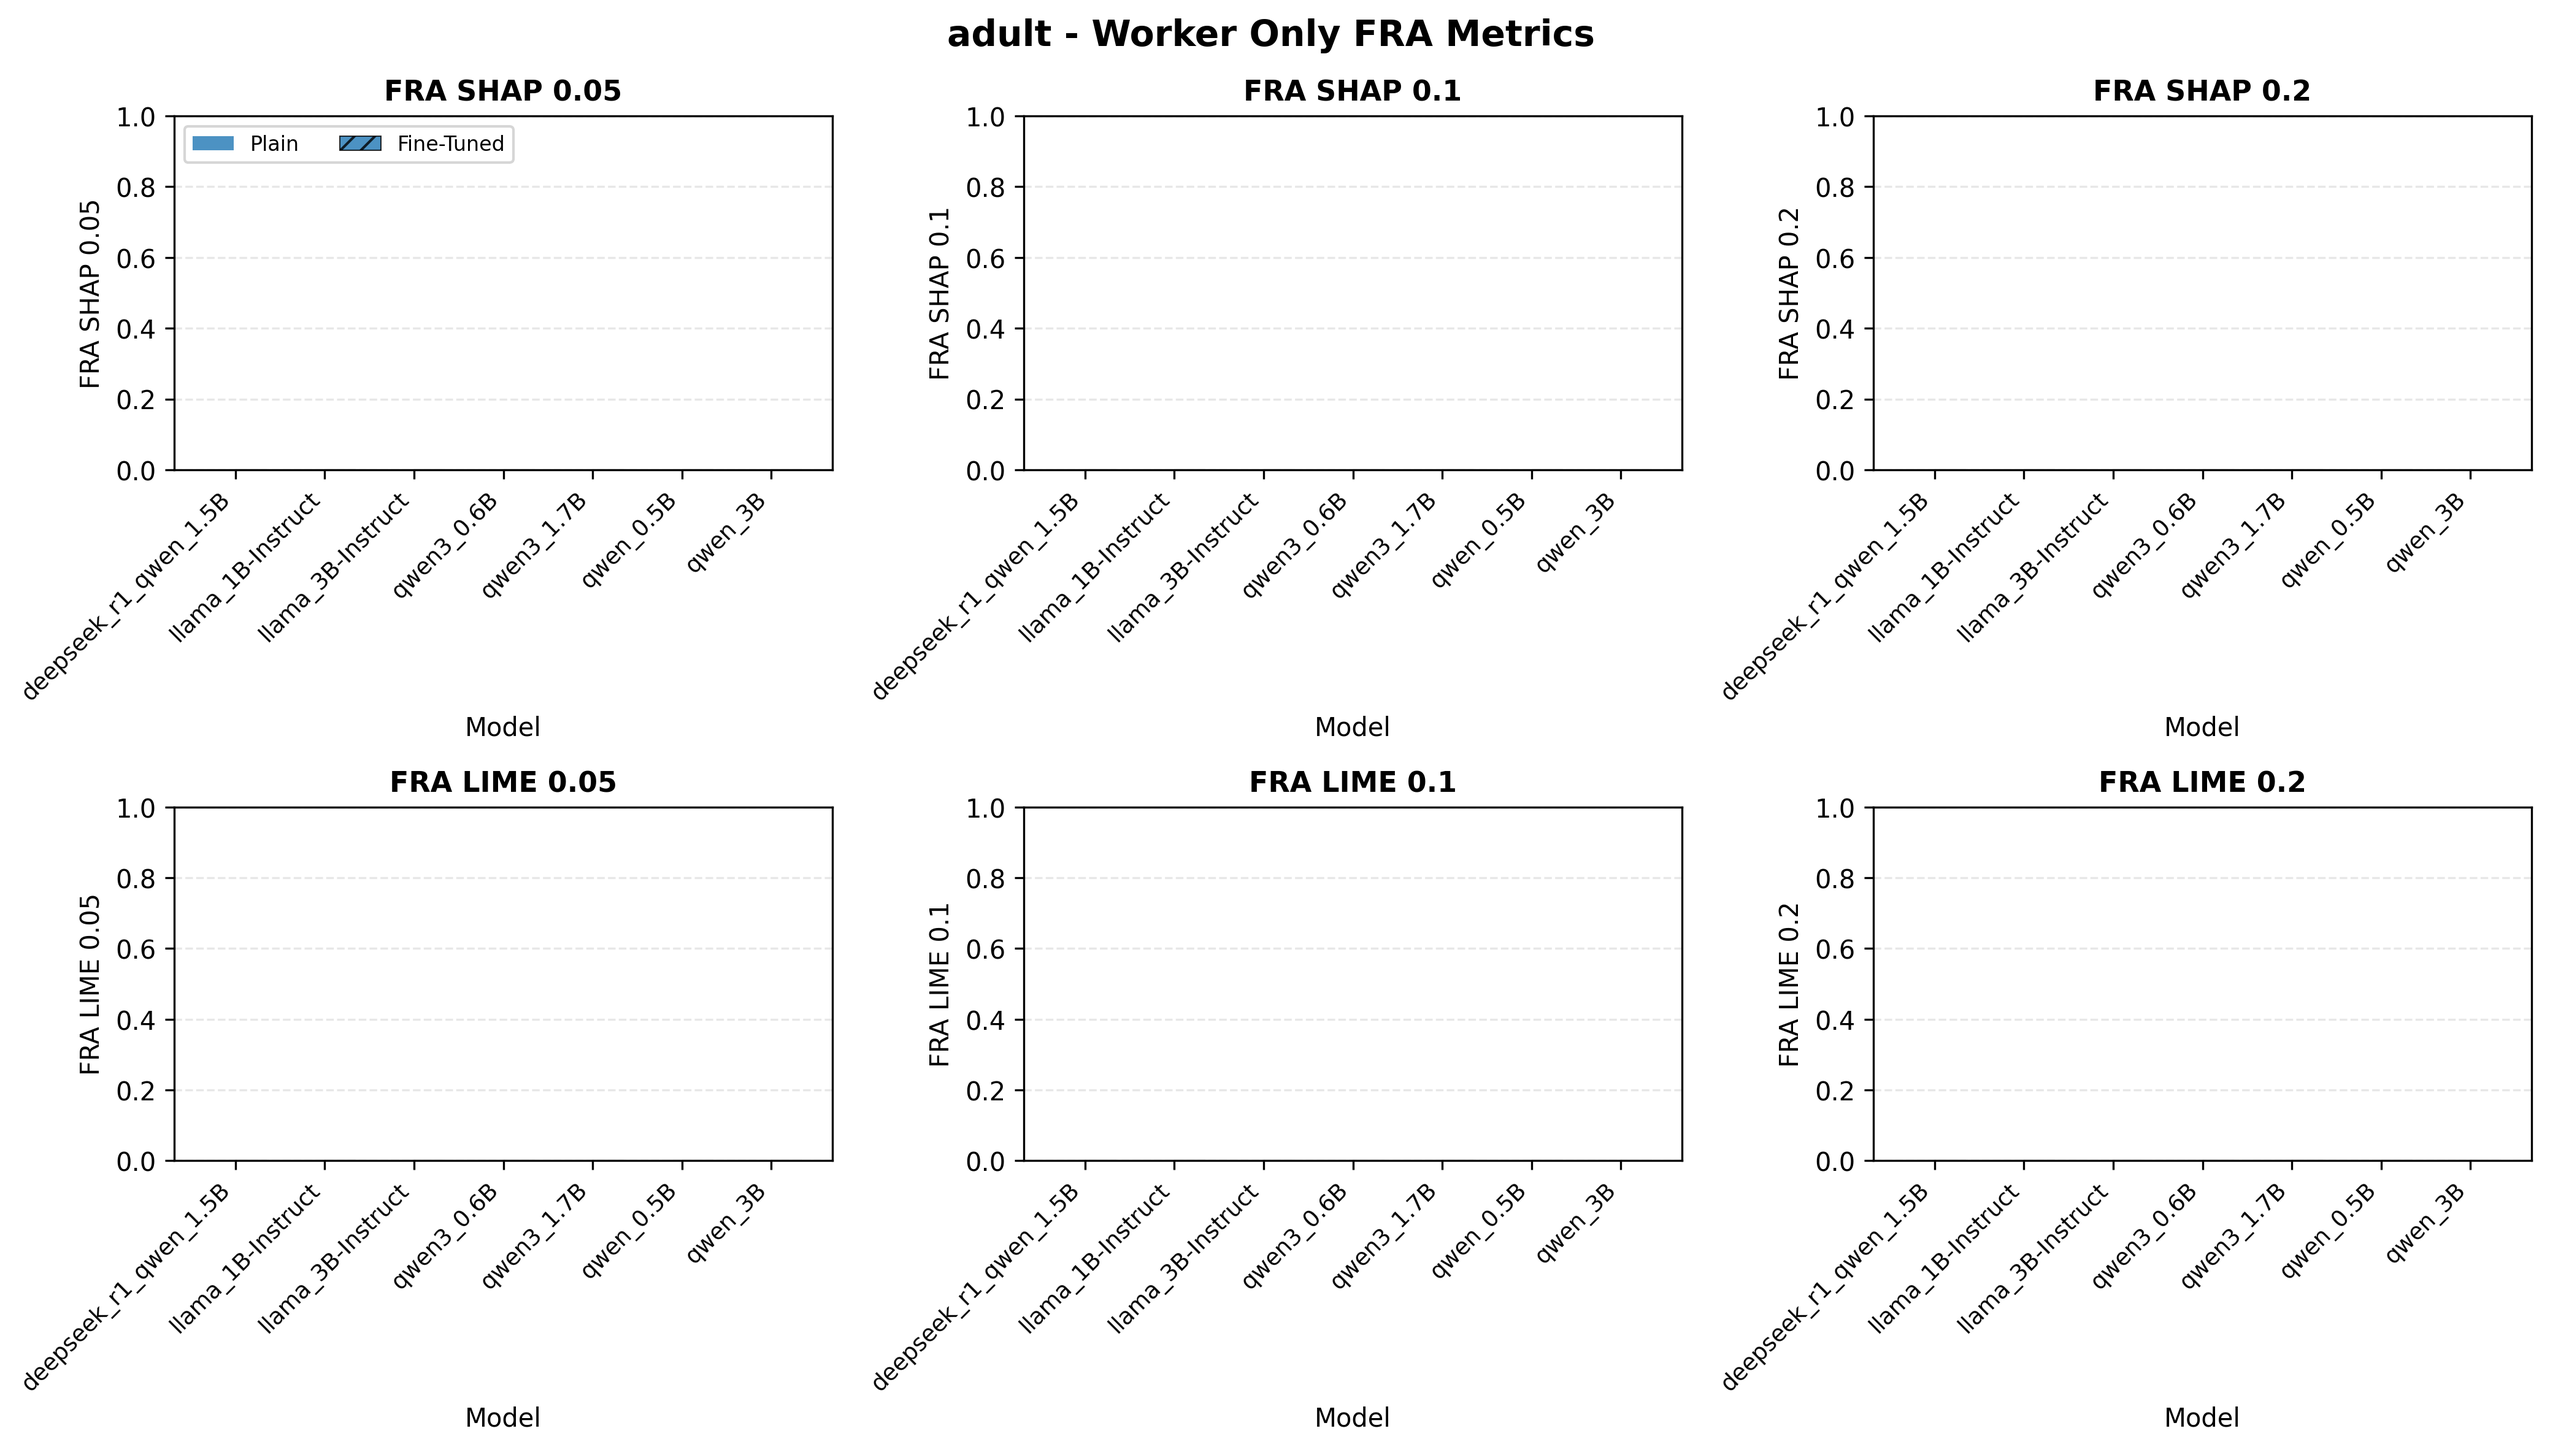
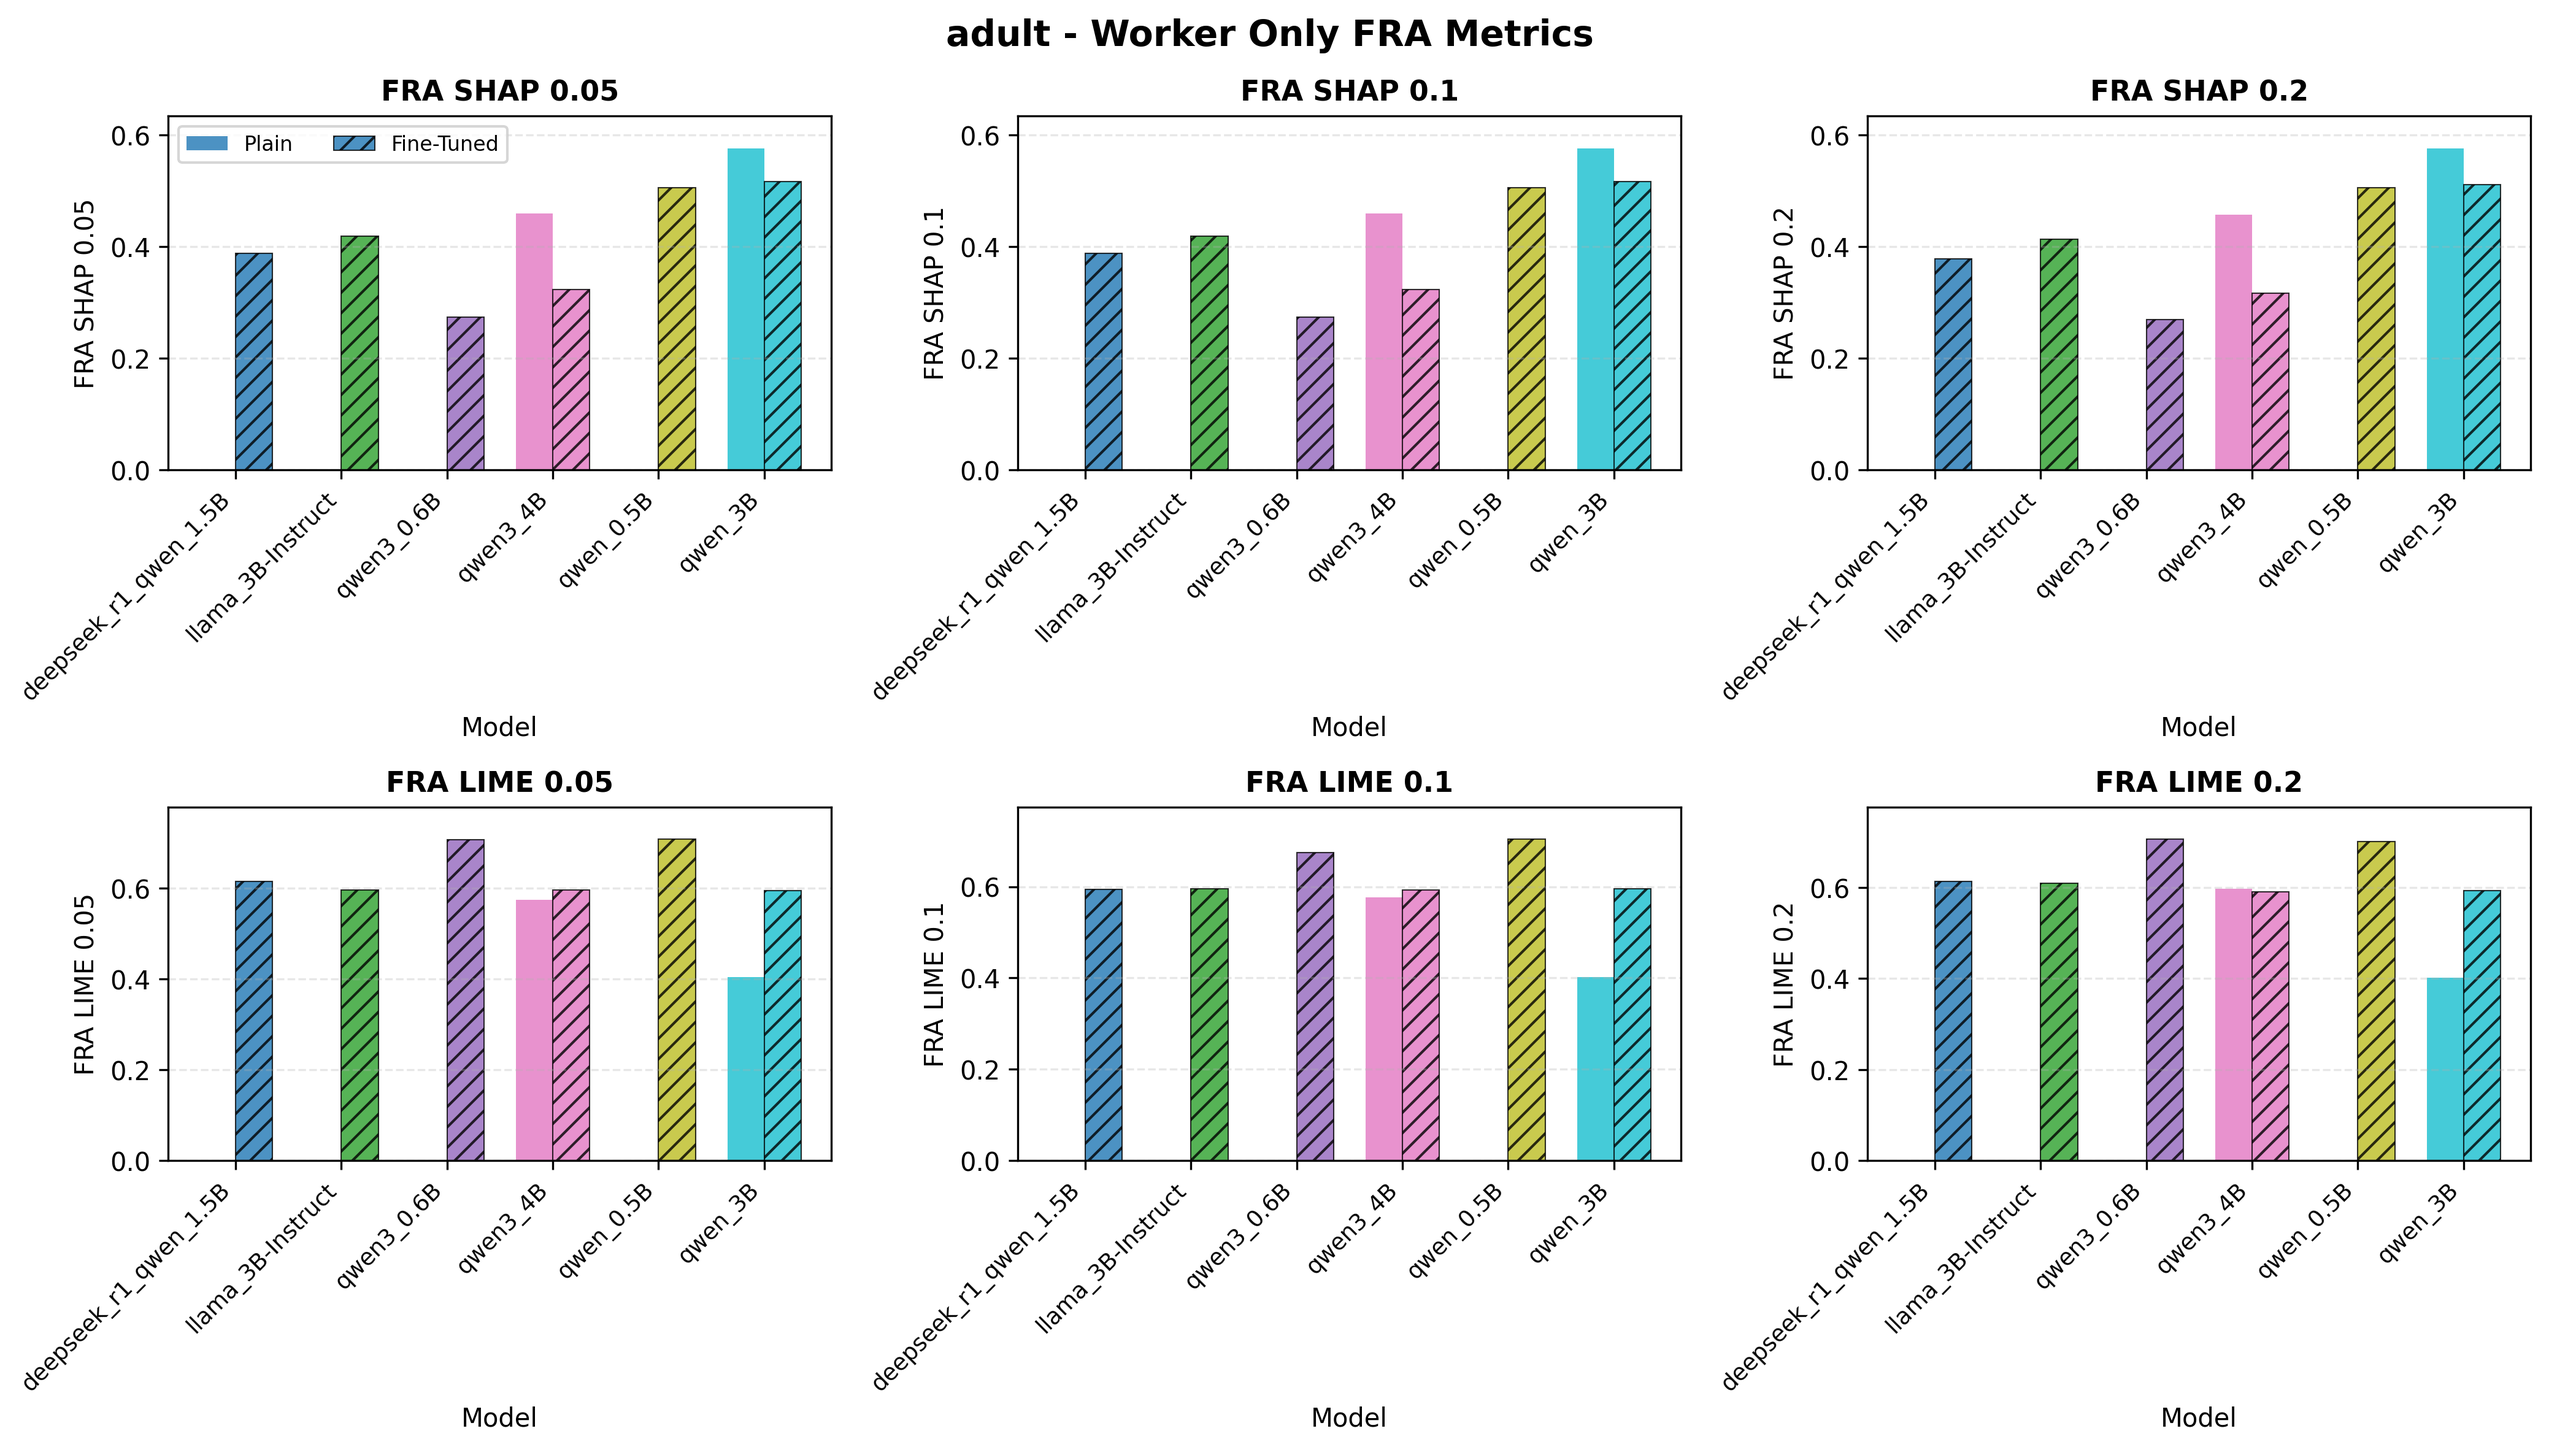
FEAT: correction of adult/california results

diff --git a/results/draft_generator/global_results/california_draft_generator.tex b/results/draft_generator/global_results/california_draft_generator.tex
@@ -3,13 +3,14 @@
     \begin{tabular}{l|p{2.5cm}|p{2.5cm}|p{2.5cm}|p{2.5cm}}
         \textbf{Model} & \textbf{Avg. FF} \newline (Plain / FT) & \textbf{PFF} \newline (Plain / FT) & \textbf{TF} \newline (Plain / FT) & \textbf{JPR} \newline (Plain / FT) \\ 
         \midrule 
-deepseek_r1_qwen_1.5B & 0.2 / 0.7883 & 0.0201 / 0.6382 & 0.1206 / 0.8191 & 0.7739 / 0.9899 \\
-llama_1B-Instruct & 0.0 / 0.8871 & 0.0 / 0.5327 & 0.0 / 0.6231 & 0.8693 / 0.8342 \\
-llama_3B-Instruct & 0.0 / 0.4836 & 0.0 / 0.4372 & 0.0 / 0.9196 & 0.0854 / 0.9849 \\
-qwen3_0.6B & 0.0 / 0.0907 & 0.0 / 0.0704 & 0.1307 / 0.9146 & 0.995 / 1.0 \\
-qwen3_1.7B & 0.0231 / 0.4031 & 0.0101 / 0.397 & 0.5427 / 0.9849 & 0.9849 / 1.0 \\
-qwen_0.5B & 0.0 / 0.7115 & 0.0 / 0.2563 & 0.0 / 0.392 & 0.9799 / 0.9146 \\
-qwen_3B & 0.9375 / 0.7604 & 0.1759 / 0.7337 & 0.201 / 0.9648 & 0.995 / 1.0 \\
+deepseek_r1_qwen_1.5B & 0.25 / 0.9592 & 0.026 / 0.8112 & 0.8636 / 0.9898 & 0.7739 / 0.9899 \\
+llama_1B-Instruct & 0.5205 / 0.8961 & 0.0 / 0.7468 & 0.7895 / 1.0 & 0.8693 / 0.8342 \\
+llama_3B-Instruct & 1.0 / 0.9609 & 0.0 / 0.9115 & 1.0 / 0.9948 & 0.0854 / 0.9849 \\
+qwen3_0.6B & 0.1465 / 0.9282 & 0.0051 / 0.8615 & 0.8283 / 1.0 & 0.995 / 1.0 \\
+qwen3_1.7B & 0.8469 / 0.9899 & 0.4541 / 0.9799 & 1.0 / 1.0 & 0.9849 / 1.0 \\
+qwen3_4B & 0.9921 / 0.9463 & 0.5105 / 0.887 & 1.0 / 0.9887 & 0.9648 / 0.9799 \\
+qwen_0.5B & 0.7385 / 0.6788 & 0.0 / 0.3408 & 0.4154 / 1.0 & 0.9799 / 0.9146 \\
+qwen_3B & 0.9773 / 0.9874 & 0.1768 / 0.9648 & 1.0 / 1.0 & 0.995 / 1.0 \\
     \end{tabular} 
     \caption{Comparison of results for worker only on california dataset.}
     \label{tab:results-california-draft}

diff --git a/results/draft_generator/global_results/california_draft_generator_fra.tex b/results/draft_generator/global_results/california_draft_generator_fra.tex
@@ -4,13 +4,14 @@
         \textbf{Model} & \textbf{FRA SHAP 0.05} \\ (Plain / FT) & \textbf{FRA SHAP 0.1} \\ (Plain / FT) & \textbf{FRA SHAP 0.2} \\ (Plain / FT) & \textbf{FRA LIME 0.05} \\ (Plain / FT) & \textbf{FRA LIME 0.1} \\ (Plain / FT) & \textbf{FRA LIME 0.2} \\ (Plain / FT) \\ 
 \textbf{FRA LIME 0.1} \\ (Plain / FT) \\ 
         \midrule 
-deepseek_r1_qwen_1.5B & 0.9718 & 0.9718 & 0.9718 & 0.9733 & 0.9733 & 0.9733 \\
+deepseek_r1_qwen_1.5B & 0.9767 & 0.9767 & 0.9767 & 0.9778 & 0.9778 & 0.9778 \\
 llama_1B-Instruct & 1.0 & 1.0 & 1.0 & 1.0 & 1.0 & 1.0 \\
-llama_3B-Instruct & 1.0 & 1.0 & 1.0 & 0.9636 & 0.9636 & 0.9636 \\
-qwen3_0.6B & 1.0 & 1.0 & 1.0 & 0.75 & 0.75 & 0.75 \\
-qwen3_1.7B & 0.963 & 0.963 & 0.963 & 1.0 & 1.0 & 1.0 \\
-qwen_0.5B & 1.0 & 1.0 & 1.0 & 1.0 & 1.0 & 1.0 \\
-qwen_3B & 0.9355 / 0.9577 & 0.9355 / 0.9577 & 0.9355 / 0.9577 & 0.9355 / 0.9873 & 0.9355 / 0.9873 & 0.9355 / 0.9873 \\
+llama_3B-Instruct & 0.989 & 0.989 & 0.989 & 0.9703 & 0.9703 & 0.9703 \\
+qwen3_0.6B & 0.975 & 0.975 & 0.975 & 0.9767 & 0.9767 & 0.9767 \\
+qwen3_1.7B & 0.95 / 0.9459 & 0.95 / 0.9459 & 0.95 / 0.9459 & 0.95 / 0.9744 & 0.95 / 0.9744 & 0.95 / 0.9744 \\
+qwen3_4B & 0.9821 / 0.9868 & 0.9821 / 0.9868 & 0.9821 / 0.9868 & 0.9839 / 1.0 & 0.9839 / 1.0 & 0.9839 / 1.0 \\
+qwen_0.5B & 0.9444 & 0.9444 & 0.9444 & 1.0 & 1.0 & 1.0 \\
+qwen_3B & 0.9355 / 0.9579 & 0.9355 / 0.9579 & 0.9355 / 0.9579 & 0.9355 / 0.9905 & 0.9355 / 0.9905 & 0.9355 / 0.981 \\
     \end{tabular} 
     \caption{FRA metrics for worker only on california dataset.}
     \label{tab:fra-results-california-draft-fra}

diff --git a/results/draft_generator/global_results/adult_draft_generator.tex b/results/draft_generator/global_results/adult_draft_generator.tex
@@ -3,13 +3,12 @@
     \begin{tabular}{l|p{2.5cm}|p{2.5cm}|p{2.5cm}|p{2.5cm}}
         \textbf{Model} & \textbf{Avg. FF} \newline (Plain / FT) & \textbf{PFF} \newline (Plain / FT) & \textbf{TF} \newline (Plain / FT) & \textbf{JPR} \newline (Plain / FT) \\ 
         \midrule 
-deepseek_r1_qwen_1.5B & 0.0 / 1.0 & 0.0 / 0.8342 & 0.1608 / 0.8291 & 0.7437 / 0.9899 \\
-llama_1B-Instruct & 0.0 / 0.9774 & 0.0 / 0.4623 & 0.0 / 0.4824 & 0.804 / 0.8593 \\
-llama_3B-Instruct & 0.0 / 1.0 & 0.0 / 0.9497 & 0.0 / 0.9497 & 0.2814 / 0.9899 \\
-qwen3_0.6B & 0.0 / 0.9958 & 0.0 / 0.593 & 0.1508 / 0.598 & 0.9899 / 1.0 \\
-qwen3_1.7B & 0.5811 / 1.0 & 0.0402 / 0.9095 & 0.3065 / 0.9095 & 0.995 / 1.0 \\
-qwen_0.5B & 0.0 / 0.9715 & 0.0 / 0.5678 & 0.0 / 0.603 & 0.9095 / 0.9548 \\
-qwen_3B & 0.985 / 1.0 & 0.1407 / 0.9598 & 0.1508 / 0.9598 & 0.9749 / 1.0 \\
+deepseek_r1_qwen_1.5B & 0.0 / 0.9749 & 0.0 / 0.9274 & 0.5338 / 0.9944 & 0.7437 / 0.9899 \\
+llama_3B-Instruct & 0.7086 / 0.9915 & 0.0 / 0.9692 & 1.0 / 1.0 & 0.2814 / 0.9899 \\
+qwen3_0.6B & 0.0153 / 0.8653 & 0.0 / 0.7613 & 0.9388 / 0.929 & 0.9899 / 1.0 \\
+qwen3_4B & 1.0 / 0.9974 & 0.7826 / 0.9949 & 0.9946 / 1.0 & 0.9296 / 1.0 \\
+qwen_0.5B & 0.4899 / 0.9109 & 0.0 / 0.686 & 0.011 / 1.0 & 0.9095 / 0.9548 \\
+qwen_3B & 0.9825 / 0.9964 & 0.1443 / 0.9795 & 1.0 / 1.0 & 0.9749 / 1.0 \\
     \end{tabular} 
     \caption{Comparison of results for worker only on adult dataset.}
     \label{tab:results-adult-draft}

diff --git a/results/draft_generator/global_results/adult_draft_generator_fra.tex b/results/draft_generator/global_results/adult_draft_generator_fra.tex
@@ -4,13 +4,12 @@
         \textbf{Model} & \textbf{FRA SHAP 0.05} \\ (Plain / FT) & \textbf{FRA SHAP 0.1} \\ (Plain / FT) & \textbf{FRA SHAP 0.2} \\ (Plain / FT) & \textbf{FRA LIME 0.05} \\ (Plain / FT) & \textbf{FRA LIME 0.1} \\ (Plain / FT) & \textbf{FRA LIME 0.2} \\ (Plain / FT) \\ 
 \textbf{FRA LIME 0.1} \\ (Plain / FT) \\ 
         \midrule 
-deepseek_r1_qwen_1.5B & n.d. & n.d. & n.d. & n.d. & n.d. & n.d. \\
-llama_1B-Instruct & n.d. & n.d. & n.d. & n.d. & n.d. & n.d. \\
-llama_3B-Instruct & n.d. & n.d. & n.d. & n.d. & n.d. & n.d. \\
-qwen3_0.6B & n.d. & n.d. & n.d. & n.d. & n.d. & n.d. \\
-qwen3_1.7B & n.d. & n.d. & n.d. & n.d. & n.d. & n.d. \\
-qwen_0.5B & n.d. & n.d. & n.d. & n.d. & n.d. & n.d. \\
-qwen_3B & n.d. & n.d. & n.d. & n.d. & n.d. & n.d. \\
+deepseek_r1_qwen_1.5B & 0.3876 & 0.3876 & 0.3781 & 0.615 & 0.5946 & 0.6131 \\
+llama_3B-Instruct & 0.4191 & 0.4191 & 0.4132 & 0.5953 & 0.5954 & 0.6095 \\
+qwen3_0.6B & 0.2732 & 0.2732 & 0.2692 & 0.706 & 0.6747 & 0.706 \\
+qwen3_4B & 0.4589 / 0.3227 & 0.4589 / 0.3227 & 0.4574 / 0.3165 & 0.5748 / 0.5951 & 0.5766 / 0.5928 & 0.5971 / 0.5903 \\
+qwen_0.5B & 0.5053 & 0.5053 & 0.5053 & 0.7077 & 0.704 & 0.7003 \\
+qwen_3B & 0.5764 / 0.5161 & 0.5764 / 0.5161 & 0.5764 / 0.5108 & 0.4043 / 0.5948 & 0.4016 / 0.5955 & 0.4016 / 0.5925 \\
     \end{tabular} 
     \caption{FRA metrics for worker only on adult dataset.}
     \label{tab:fra-results-adult-draft-fra}

diff --git a/results/draft_generator/global_results/adult_draft_generator_feasibility.tex b/results/draft_generator/global_results/adult_draft_generator_feasibility.tex
@@ -4,10 +4,9 @@
         \textbf{Model} & \textbf{Inference Time (s)} \\ (Plain / FT) & \textbf{Energy (J)} \\ (Plain / FT) & \textbf{Avg. Power (W)} \\ (Plain / FT) \\ 
         \midrule 
 deepseek_r1_qwen_1.5B & 5.678 ± 4.346 / 22.808 ± 3.918 & 1451.982 ± 1146.818 / 5262.374 ± 907.525 & 259.755 ± 3.147 / 232.034 ± 0.785 \\
-llama_1B-Instruct & 2.021 ± 1.728 / 11.749 ± 3.940 & 489.419 ± 459.708 / 2791.784 ± 955.834 & 255.347 ± 10.093 / 239.741 ± 2.015 \\
 llama_3B-Instruct & 4.038 ± 0.593 / 23.670 ± 6.952 & 1132.332 ± 174.478 / 6336.335 ± 1880.043 & 288.014 ± 4.185 / 268.863 ± 1.064 \\
 qwen3_0.6B & 2.771 ± 0.595 / 16.679 ± 2.751 & 566.197 ± 132.400 / 3147.111 ± 531.894 & 212.808 ± 4.027 / 190.137 ± 1.341 \\
-qwen3_1.7B & 9.342 ± 3.542 / 20.038 ± 5.470 & 2476.272 ± 962.465 / 4783.439 ± 1330.716 & 267.760 ± 2.229 / 239.780 ± 1.287 \\
+qwen3_4B & 26.700 ± 9.109 / 28.380 ± 9.170 & 7890.967 ± 2711.412 / 7650.965 ± 2495.370 & 296.685 ± 0.974 / 270.590 ± 0.841 \\
 qwen_0.5B & 1.331 ± 0.682 / 9.472 ± 2.571 & 224.719 ± 134.441 / 1629.769 ± 450.999 & 183.001 ± 7.108 / 173.908 ± 1.378 \\
 qwen_3B & 4.102 ± 0.593 / 24.640 ± 7.957 & 1117.115 ± 171.876 / 6272.784 ± 2040.770 & 280.193 ± 3.840 / 255.696 ± 0.798 \\
     \end{tabular} 

diff --git a/results/draft_generator/global_results/california_draft_generator_feasibility.tex b/results/draft_generator/global_results/california_draft_generator_feasibility.tex
@@ -8,6 +8,7 @@ llama_1B-Instruct & 1.983 ± 0.358 / 8.940 ± 4.159 & 481.501 ± 102.466 / 2124.
 llama_3B-Instruct & 4.507 ± 0.368 / 22.666 ± 6.697 & 1280.855 ± 113.290 / 6080.909 ± 1816.009 & 290.987 ± 3.562 / 269.537 ± 0.961 \\
 qwen3_0.6B & 3.017 ± 0.646 / 10.327 ± 3.933 & 617.916 ± 142.901 / 1909.468 ± 754.841 & 212.522 ± 3.778 / 186.104 ± 2.149 \\
 qwen3_1.7B & 9.261 ± 3.747 / 13.419 ± 3.795 & 2465.812 ± 1020.577 / 3195.807 ± 919.940 & 269.023 ± 1.922 / 239.968 ± 1.282 \\
+qwen3_4B & 26.713 ± 8.283 / 36.364 ± 12.319 & 7893.407 ± 2461.841 / 9814.324 ± 3347.757 & 296.824 ± 0.862 / 270.571 ± 0.666 \\
 qwen_0.5B & 1.541 ± 0.162 / 5.289 ± 2.743 & 267.159 ± 34.745 / 889.784 ± 479.543 & 186.838 ± 5.782 / 171.511 ± 1.868 \\
 qwen_3B & 5.103 ± 1.023 / 19.775 ± 7.419 & 1411.159 ± 293.183 / 5044.786 ± 1910.794 & 282.324 ± 3.128 / 256.476 ± 0.899 \\
     \end{tabular} 
